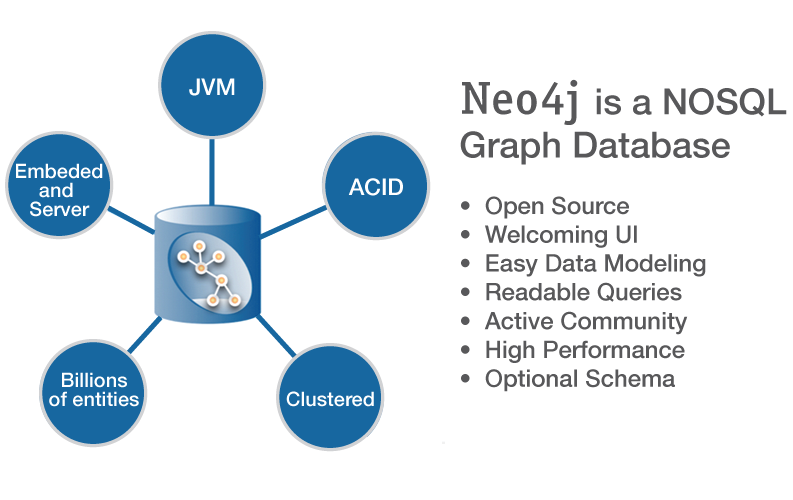
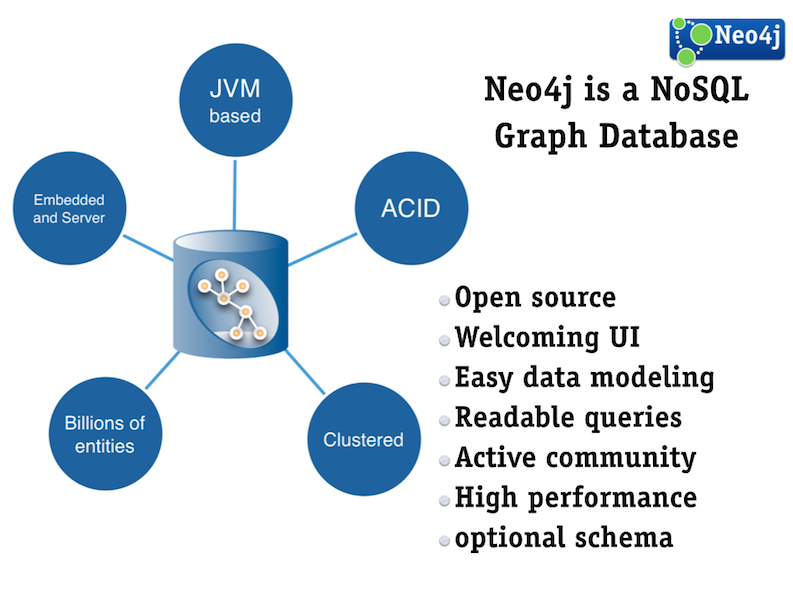
minor wording and image updates

Changed region(s): [[0.0, 0.03, 0.9987, 0.93], [0.3632, 0.6, 0.3934, 0.63], [0.0303, 0.27, 0.0605, 0.3]]

diff --git a/get-started/graph-database/index.html b/get-started/graph-database/index.html
@@ -617,15 +617,15 @@ You should have a basic understanding of what a database is.
 <p>We live in a connected world.
 There are no isolated pieces of information, but rich, connected domains all around us.
 Only a database that embraces relationships as a core aspect of its data model is able to store, process, and query connections efficiently.
-While other databases compute relationships expensively at query time, a graph database stores connections as first level citizens, readily available for any "join-like" navigation operation.
-Accessing those already persistent connections is an efficient, constant-time operation and allows you to quickly traverse millions of connections per second.</p>
+While other databases compute relationships expensively at query time, a graph database stores connections as first class citizens, readily available for any "join-like" navigation operation.
+Accessing those already persistent connections is an efficient, constant-time operation and allows you to quickly traverse millions of connections per second per core.</p>
 </div>
 
 
 
 <div class="paragraph">
-<p>Independent of the size of the total dataset, graph databases excel at managing highly connected data and complex queries.
-Armed only with a pattern and a set of starting points, graph databases explore the larger neighborhood around their initial points&#8212;&#8203;collecting and aggregating information from millions of nodes and relationships&#8212;&#8203;leaving the billions outside the search perimeter untouched.</p>
+<p>Independent of the total size of your dataset, graph databases excel at managing highly connected data and complex queries.
+Armed only with a pattern and a set of starting points, graph databases explore the larger neighborhood around the initial starting points&#8201;&#8212;&#8201;collecting and aggregating information from millions of nodes and relationships&#8201;&#8212;&#8201;leaving the billions outside the search perimeter untouched.</p>
 </div>
 
 </div>
@@ -635,21 +635,21 @@ Armed only with a pattern and a set of starting points, graph databases explore 
 
 
 <div class="paragraph">
-<p>If you’ve ever worked with an object model or entity relationship diagram, the labeled property graph model will seem familiar.
-The property graph contains connected entities (the <em>nodes</em>) which can hold arbitrary types and numbers of properties (key-value-pairs).
-Nodes can be tagged with zero to many labels representing their different roles in the domain.
-In addition to contextualizing node and relationship properties, labels may also serve to attach metadata&#8212;&#8203;index or constraint information, for example&#8212;&#8203;to nodes.</p>
+<p>If you’ve ever worked with an object model or an entity relationship diagram, the labeled property graph model will seem familiar.
+The property graph contains connected entities (the <em>nodes</em>) which can hold any number of attributes (key-value-pairs).
+Nodes can be tagged with labels representing their different roles in your domain.
+In addition to contextualizing node and relationship properties, labels may also serve to attach metadata&#8212;&#8203;index or constraint information&#8212;&#8203;to certain nodes.</p>
 </div>
 
 
 
 <div class="paragraph">
-<p><em>Relationships</em> provide directed, named semantic connections between two nodes.
+<p><em>Relationships</em> provide directed, named semantically relevant connections between two node-entities.
 A relationship always has a direction, a type, a <em>start node</em>, and an <em>end node</em>.
-Like nodes, relationships can have arbitrary properties.
-In most cases, relationships have quantitative properties, such as weights, distances, ratings, time intervals, or strengths.
-As relationships are stored efficiently, two nodes can have any number or type of relationships between them without sacrificing performance.
-Note that although they are directed, relationships can always be navigated in both directions.</p>
+Like nodes, relationships can have any properties.
+In most cases, relationships have quantitative properties, such as weights, costs, distances, ratings, time intervals, or strengths.
+As relationships are stored efficiently, two nodes can share any number or type of relationships without sacrificing performance.
+Note that although they are directed, relationships can always be navigated regardless of direction.</p>
 </div>
 
 <div class="imageblock">
@@ -666,15 +666,31 @@ Note that although they are directed, relationships can always be navigated in b
 
 
 <div class="paragraph">
-<p>There is only one consistent rule in a graph database: "No broken links".
+<p>There is one core consistent rule in a graph database: "No broken links".
 Since a relationship always has a start and end node, you can’t delete a node without also deleting its associated relationships.
-You can also always assume that an existing relationship will not point to a non-existing endpoint.</p>
+You can also always assume that an existing relationship will never point to a non-existing endpoint.</p>
 </div>
 
 <div class="imageblock">
 <p class="content">
 <img src="http://dev.assets.neo4j.com.s3.amazonaws.com/wp-content/uploads/property_graph_model.png" alt="property graph model">
 </p>
+</div>
+<div class="ulist side-nav">
+<ul>
+<li>
+<a href="http://watch.neo4j.org/video/103466968">Webinar: Intro to Neo4j by Nicole White</a>
+</li>
+<li>
+<a href="/developer-resources/guide-intro-to-graph-modeling">Intro to Graph Modeling</a>
+</li>
+<li>
+<a href="/online-course">Training: Online Intro Course</a>
+</li>
+<li>
+<a href="/learning-neo4j-book/">Book: Learning Neo4j by Rik Van Bruggen</a>
+</li>
+</ul>
 </div>
 </div>
 <div class="sect2 columns medium-12" style='padding-left: 0;' >
@@ -684,16 +700,16 @@ You can also always assume that an existing relationship will not point to a non
 <div class="paragraph">
 <p>Sponsored by Neo Technology, Neo4j is an open-source NoSQL graph database implemented in Java and Scala.
 With development starting in 2003, it has been publicly available since 2007.
-The source code and issue tracking are available on <a href="https://github.com/neo4j">GitHub</a>, with support readily available on Stack Overflow and the Neo4j Google group.
-Limited only by hardware, Neo4j is used today by hundreds of thousands of users in almost all industries.
+The source code and issue tracking are available on <a href="https://github.com/neo4j/neo4j">GitHub</a>, with support readily available on Stack Overflow and the Neo4j Google group.
+Neo4j is used today by hundreds of thousands of companies and organizations in almost all industries.
 Use cases include matchmaking, network management, software analytics, scientific research, routing, organizational and project management, recommendations, social networks, and more.</p>
 </div>
 
 
 
 <div class="paragraph">
-<p>Neo4j implements the Property Graph Model down to the storage level.
-As opposed to graph processing or in-memory libraries, Neo4j provides full database characteristics including ACID compliance, cluster support, and runtime failover, making it suitable to use graph data in production scenarios.</p>
+<p>Neo4j implements the Property Graph Model efficiently down to the storage level.
+As opposed to graph processing or in-memory libraries, Neo4j provides full database characteristics including ACID transaction compliance, cluster support, and runtime failover, making it suitable to use graph data in <strong>production scenarios</strong>.</p>
 </div>
 
 
@@ -705,10 +721,10 @@ As opposed to graph processing or in-memory libraries, Neo4j provides full datab
 <div class="ulist">
 <ul>
 <li>
-Materializing of relationships at creation time, resulting in no penalties for runtime queries
+Materializing of relationships at creation time, resulting in no penalties for complex runtime queries
 </li>
 <li>
-Constant time traversals for relationships in the graph both in depth and in breadth due to double-linking on storage level between nodes and relationships
+Constant time traversals for relationships in the graph both in depth and in breadth due to efficient representation of nodes and relationships
 </li>
 <li>
 All relationships in Neo4j are equally important and fast, making it possible to materialize and use new relationships later on to "shortcut" and speed up the domain data when new needs arise
@@ -732,11 +748,27 @@ Written on top of the JVM
 
 
 <div class="paragraph">
-<p>Neo4j’s free and open-source <em>Community</em> edition is a high-performance, fully ACID-transactional database. The <em>Community</em> edition includes (but is not limited to) all the functionality described in this article.
-Neo4j&#8217;s <em>Enterprise</em> editions provide all of the functionality of the Community edition in addition to scalable clustering, fail-over, live backups, and comprehensive monitoring.
-<em>More information about the Community and Enterprise editions is available at <a href="http://neo4j.com/docs" class="bare">http://neo4j.com/docs</a></em></p>
+<p>Neo4j’s free and open-source <em>Community</em> edition is a high-performance, fully ACID-transactional database. The <em>Community</em> edition includes (but is not limited to) all the functionality described previously in this section.
+Neo4j&#8217;s <em>Enterprise</em> editions provide all of the functionality of the Community edition in addition to <strong>scalable clustering, fail-over, high-availability, live backups, and comprehensive monitoring</strong>.
+<em>Learn more about the <a href="/editions">Community and Enterprise editions</a>.</em></p>
 </div>
 
+<div class="ulist side-nav">
+<ul>
+<li>
+<a href="/developer-resources/working-with-data/guide-neo4j-browser">Neo4j Browser Intro</a>
+</li>
+<li>
+<a href="/developer-resources/cypher/">Cypher Query Language</a>
+</li>
+<li>
+<a href="/developer-resources/language-guides">Neo4j Language Drivers</a>
+</li>
+<li>
+<a href="/editions">Community and Enterprise editions</a>
+</li>
+</ul>
+</div>
 </div>
 <div class="sect2 columns medium-12" style='padding-left: 0;' >
 <h3 id="_neo4j_server">Neo4j Server</h3>
@@ -744,31 +776,18 @@ Neo4j&#8217;s <em>Enterprise</em> editions provide all of the functionality of t
 
 <div class="paragraph">
 <p>You can download Neo4j from <code><a href="http://neo4j.com/download">http://neo4j.com/download</a></code> and install it as a server on all operating systems.
-By default, the Neo4j Server is bundled with a web interface bound to <code><a href="http://localhost:7474" class="bare">http://localhost:7474</a></code>.
-The simplest way of getting started is to use Neo4j&#8217;s database browser to execute your graph queries (written in Cypher, the graph query language described below) in a workbench-like fashion.
+By default, the Neo4j Server is bundled with an interactive, web-based database interface bound to <code><a href="http://localhost:7474" class="bare">http://localhost:7474</a></code>.
+The simplest way of getting started is to use Neo4j&#8217;s database browser to execute your graph queries (written in <a href="/developer-resources/cypher">Cypher</a>) in a workbench-like fashion.
 Results are presented as either intuitive graph visualizations or as easy-to-read, exportable tables.</p>
 </div>
 
 
 
 <div class="paragraph">
-<p>A remote Neo4j server can be accessed via its Cypher HTTP API, either directly or through one of the many available language drivers.
+<p>A remote Neo4j server can be accessed via its Cypher HTTP API, either directly or through one of the many available <a href="/developer-resources/language-guides">language drivers</a>.
 For high performance special cases, you can write Neo4j server extensions in any JVM language to access Neo4j&#8217;s internal database engine directly without network overhead.</p>
 </div>
 
-<div class="ulist side-nav">
-<ul>
-<li>
-<a href="/books">The Neo4j Bookshelf</a>
-</li>
-<li>
-<a href="http://watch.neo4j.org">The Neo4j Video Library</a>
-</li>
-<li>
-<a href="http://gist.neo4j.org/">GraphGists</a>
-</li>
-</ul>
-</div>
 </div>
                     </div>
                     <div class="large-3 large-pull-9 columns">

diff --git a/ecosystem/index.html b/ecosystem/index.html
@@ -591,28 +591,6 @@ This is a great place to start.
 Here you’ll find guides from Neo4j’s community of contributors.</p>
 </div>
 
-
-
-<div class="paragraph">
-<p>Topics include:</p>
-</div>
-
-<div class="ulist">
-<ul>
-<li>
-Third-party Tools
-</li>
-<li>
-Contributed Guides
-</li>
-<li>
-Reference Documentation
-</li>
-<li>
-Community Support Channels
-</li>
-</ul>
-</div>
 <div class="sect1 "  >
 <h3 id="__span_class_label_bgblue_manual_span_reference_documentation"><span class="label bgblue">Manual →</span> Reference Documentation</h3>
 <hr>
@@ -627,6 +605,31 @@ The topics should be relevant to architects, administrators and developers.</p>
 <ul>
 <li>
 <a href="http://neo4j.com/docs/stable">Neo4j Manual</a>
+<div class="ulist">
+<ul>
+<li>
+<a href="http://neo4j.com/docs/stable/introduction.html">Introduction</a>
+</li>
+<li>
+<a href="http://neo4j.com/docs/stable/tutorials.html">Tutorials</a>
+</li>
+<li>
+<a href="http://neo4j.com/docs/stable/cypher-query-lang.html">Cypher Query Language</a>
+</li>
+<li>
+<a href="http://neo4j.com/docs/stable/reference-documentation.html">Reference</a>
+</li>
+<li>
+<a href="http://neo4j.com/docs/stable/operations.html">Operations</a>
+</li>
+<li>
+<a href="http://neo4j.com/docs/stable/tools.html">Tools</a>
+</li>
+<li>
+<a href="http://neo4j.com/docs/stable/advanced-usage.html">Advanced Usage</a>
+</li>
+</ul>
+</div>
 </li>
 </ul>
 </div>
@@ -671,8 +674,8 @@ Don&#8217;t hesitate to ask, when you’re stuck and looking for help.</p>
 <div class="title label">Note</div>
 </td>
 <td class="content">
-Please supply as much context information in your questions as possible.
-Only then people can help you quickly and efficiently.
+Please supply as much contextual information in your questions as possible.
+Only then community members can help you quickly and efficiently.
 </td>
 </tr>
 </table>
@@ -680,16 +683,16 @@ Only then people can help you quickly and efficiently.
 <div class="ulist">
 <ul>
 <li>
-Neo4j version, library/driver name and versions, operating system, java version
+Neo4j version, library/driver name and versions, operating system, Java version
 </li>
 <li>
 programming language and version
 </li>
 <li>
-explanation
+explanation of issue
 </li>
 <li>
-code
+code and configuration used
 </li>
 <li>
 graph-structure (ascii art or graphics)
@@ -711,7 +714,7 @@ any other helpful information
 application output
 </li>
 <li>
-log-files (data/log/*.log, data/graph.db/messages.log)
+log-files (<code>data/log/*.log</code>, <code>data/graph.db/messages.log</code>)
 </li>
 <li>
 exceptions with <strong>full</strong> stacktraces
@@ -737,6 +740,9 @@ Basically, at all the places where you can get help, there’s also room for con
 </li>
 <li>
 <a href="http://neo4j.com/docs/stable/cla.html">Manual: Contributors License Agreement</a>
+</li>
+<li>
+GitHub <a href="http://github.com/neo4j/neo4j/issues">Issues</a> and <a href="http://github.com/neo4j/neo4j/pull">Pull Requests</a>
 </li>
 </ul>
 </div>
